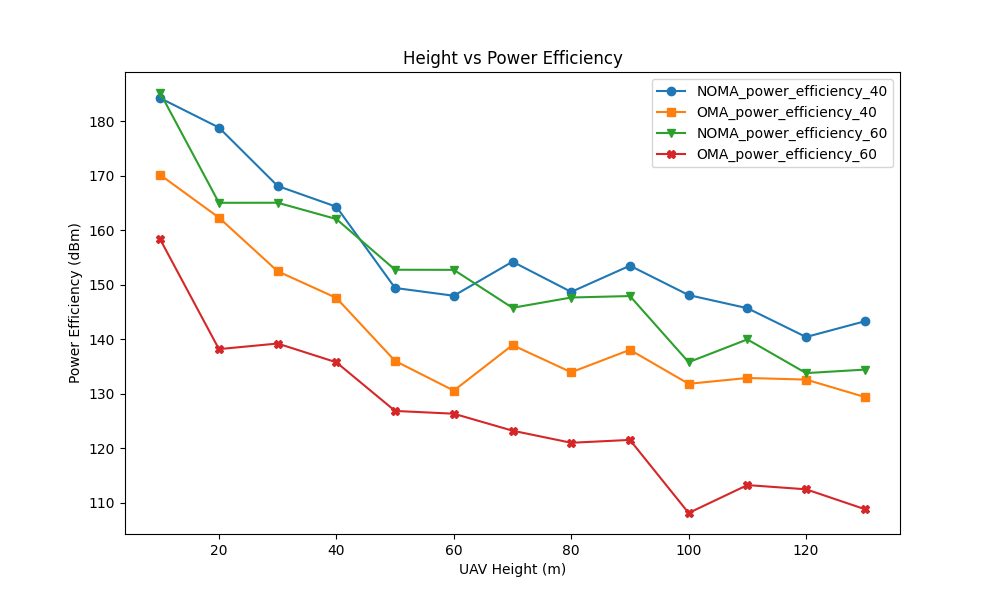
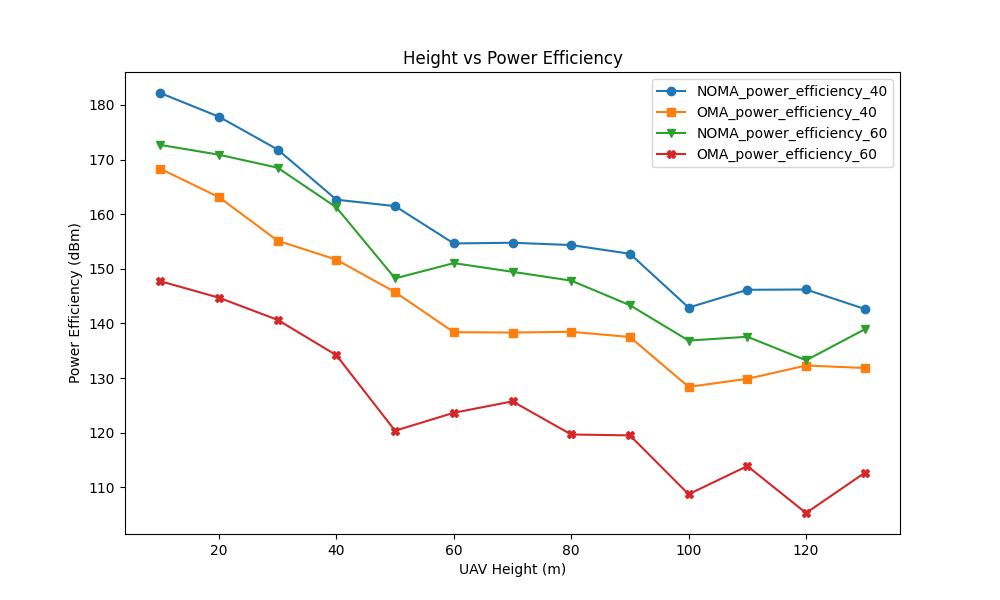
optimized for height and restructured

diff --git a/compare.py b/compare.py
@@ -9,7 +9,11 @@ from inputs import environment_parameters, system_parameters
 from rician_factor import get_rician_factor
 import small_scale_fading as ssf
 
+
 def generate_uniform_points_in_circle(n, r):
+    '''
+        Generate a list of uniformly distributed cartesian coordinate points in a circle of radius r, centered at (0, 0)
+    '''
     # Generate n random angles uniformly distributed between 0 and 2*pi
     angles = np.random.uniform(0, 2 * np.pi, n)
     
@@ -23,7 +27,11 @@ def generate_uniform_points_in_circle(n, r):
     return list(zip(x, y))
 
 
-def simulate(no_users, height=None):
+
+def generate_user_data(no_users, height, user_locations):
+    '''
+        Generate two lists consisting of users' channel gains and threshold datarates repectively
+    '''
     # user division in service classes
     no_service_classes = len(uav['service_classes'])
     users_in_sclass = [(no_users // no_service_classes) for _ in range(no_service_classes)]
@@ -35,8 +43,6 @@ def simulate(no_users, height=None):
         extra_users -= 1
         i += 1
 
-    # generating user data
-    uniform_coordinates = generate_uniform_points_in_circle(no_users, system_parameters['cell_redius'])
     users = []
 
     i = 0
@@ -44,7 +50,7 @@ def simulate(no_users, height=None):
         for si in range(users_in_sclass[s]):
             user = dict()
             
-            user['coordinate'] = uniform_coordinates[i]
+            user['coordinate'] = user_locations[i]
             user['th_data_rate'] = uav['service_classes'][s] * 1e6
             
             # Calculating euclidean distance between UAV and user           
@@ -79,7 +85,13 @@ def simulate(no_users, height=None):
     H_db = [users[i]['H_db'] for i in range(no_users)]
     th_data_rate = [users[i]['th_data_rate'] for i in range(no_users)]
 
+    return H_db, th_data_rate
     
+
+
+def simulate(H_db, th_data_rate, height):
+    
+    no_users = len(H_db)
 
     # Get total power using NOMA
     association_matrix, power_matrix = simu_NOMA.noma_power_opt(
@@ -124,28 +136,44 @@ def simulate(no_users, height=None):
     pe_oma = 10 * math.log10(sum(th_data_rate) * 1e6/total_power_oma)
 
 
-    return (total_power_noma_dbm, total_power_oma_dbm, pe_noma, pe_oma, H_db)
+    return (total_power_noma_dbm, total_power_oma_dbm, pe_noma, pe_oma)
+
 
 
 if __name__== '__main__':
     
-    # Comparison of average power and power efficiency of NOMA and OMA 
-    no_of_users = list()
-    total_powers_noma = list()
-    total_powers_oma = list()
-    pes_noma = list()
-    pes_oma = list()
 
-    for i in range(20, 133, 10):
-        (total_power_noma, total_power_oma, pe_noma, pe_oma, _) = simulate(i, 40)
-        no_of_users.append(i)
-        total_powers_noma.append(total_power_noma)
-        total_powers_oma.append(total_power_oma)
-        pes_noma.append(pe_noma)
-        pes_oma.append(pe_oma)
+    power_data_for_optimal_height = tuple()
+    best_average_total_power_noma_for_heights = 46
+    optimal_height = 10
+    for h in range(uav['min_height'], uav['max_height']+1, 10):
+        # Comparison of average power and power efficiency of NOMA and OMA 
+        no_of_users = list()
+        total_powers_noma = list()
+        total_powers_oma = list()
+        pes_noma = list()
+        pes_oma = list()
+
+        for i in range(20, 133, 10):
+            # generating user locations
+            user_locations = generate_uniform_points_in_circle(i, system_parameters['cell_redius'])
+            H_db, th_data_Rate = generate_user_data(i, h, user_locations)
+            (total_power_noma, total_power_oma, pe_noma, pe_oma) = simulate(H_db, th_data_Rate, h)
+            no_of_users.append(i)
+            total_powers_noma.append(total_power_noma)
+            total_powers_oma.append(total_power_oma)
+            pes_noma.append(pe_noma)
+            pes_oma.append(pe_oma)
+
+        average = math.fsum(total_powers_noma) / len(total_powers_noma)
+        if average < best_average_total_power_noma_for_heights:
+            best_average_total_power_noma_for_heights = average
+            power_data_for_optimal_height = (no_of_users, total_powers_noma, total_powers_oma, pes_noma, pes_oma)
+            optimal_height = h
 
 
-
+    no_of_users, total_powers_noma, total_powers_oma, pes_noma, pes_oma = power_data_for_optimal_height
+    print(f"Optimal Height for NOMA = {optimal_height} m")
     # Name of the CSV file
     numberOfUsers_vs_power = 'data_numberOfUsers_vs_power.csv'
 
@@ -176,38 +204,36 @@ if __name__== '__main__':
     h_total_powers_oma_40 = list()
     h_pes_noma_40 = list()
     h_pes_oma_40 = list()
-    h_data_40 = list()
+
+    # generating user locations
+    h_user_locations_40 = generate_uniform_points_in_circle(40, system_parameters['cell_redius'])
 
     for h in range(uav['min_height'], uav['max_height']+1, 10):
-        (h_total_power_noma_40, h_total_power_oma_40, h_pe_noma_40, h_pe_oma_40, h_db_40) = simulate(40, h)
+        H_db_40, th_data_Rate_40 = generate_user_data(40, h, h_user_locations_40)
+        (h_total_power_noma_40, h_total_power_oma_40, h_pe_noma_40, h_pe_oma_40) = simulate(H_db_40, th_data_Rate_40, h)
         heights.append(h)
         h_total_powers_noma_40.append(h_total_power_noma_40)
         h_total_powers_oma_40.append(h_total_power_oma_40)
         h_pes_noma_40.append(h_pe_noma_40)
         h_pes_oma_40.append(h_pe_oma_40)
-
-        # For plotting Average value of Height vs Channel Gain
-        h_db_40.insert(0, h)
-        h_data_40.append(h_db_40)
-
+ 
     # Height vs Power with 60 users
     h_total_powers_noma_60 = list()
     h_total_powers_oma_60 = list()
     h_pes_noma_60 = list()
     h_pes_oma_60 = list()
-    h_data_60 = list()
+
+
+    # generating user locations
+    h_user_locations_60 = generate_uniform_points_in_circle(60, system_parameters['cell_redius'])
 
     for h in range(uav['min_height'], uav['max_height']+1, 10):
-        (h_total_power_noma_60, h_total_power_oma_60, h_pe_noma_60, h_pe_oma_60, h_db_60) = simulate(60, h)
+        H_db_60, th_data_Rate_60 = generate_user_data(60, h, h_user_locations_60)
+        (h_total_power_noma_60, h_total_power_oma_60, h_pe_noma_60, h_pe_oma_60) = simulate(H_db_60, th_data_Rate_60, h)
         h_total_powers_noma_60.append(h_total_power_noma_60)
         h_total_powers_oma_60.append(h_total_power_oma_60)
         h_pes_noma_60.append(h_pe_noma_60)
         h_pes_oma_60.append(h_pe_oma_60)
-
-        # For plotting Average value of Height vs Channel Gain
-        h_db_60.insert(0, h)
-        h_data_60.append(h_db_60)
-    
 
 
     # Name of the CSV file
@@ -243,15 +269,3 @@ if __name__== '__main__':
             ])
 
     print(f"Data written to {height_vs_powerEfficiency} successfully!")
-
-
-    # For plotting Height vs Channel gain
-    height_vs_channelGain = 'data_height_vs_channelGain.csv'
-
-    # Write the data to a CSV file
-    with open(height_vs_channelGain, 'w', newline='') as file:
-        writer = csv.writer(file)
-        writer.writerows(h_data_40)
-
-    print(f"Data written to {height_vs_channelGain} successfully!")
-        

diff --git a/plot_user_vs_power.py b/plot_user_vs_power.py
@@ -21,7 +21,7 @@ plt.figure(figsize=(10, 6))
 plt.plot(data['number_of_users'], data['NOMA_power_efficiency'], label='NOMA_power_efficiency', marker='o')
 plt.plot(data['number_of_users'], data['OMA_power_efficiency'], label='OMA_power_efficiency', marker='s')
 plt.xlabel('Number of Users')
-plt.ylabel('Power Efficiency (dBm)')
+plt.ylabel('Power Efficiency (in log scale)')
 plt.title('Number of Users vs Power Efficiency')
 plt.legend()
 plt.savefig('Fig_Users_vs_PowerEfficiency.png')
